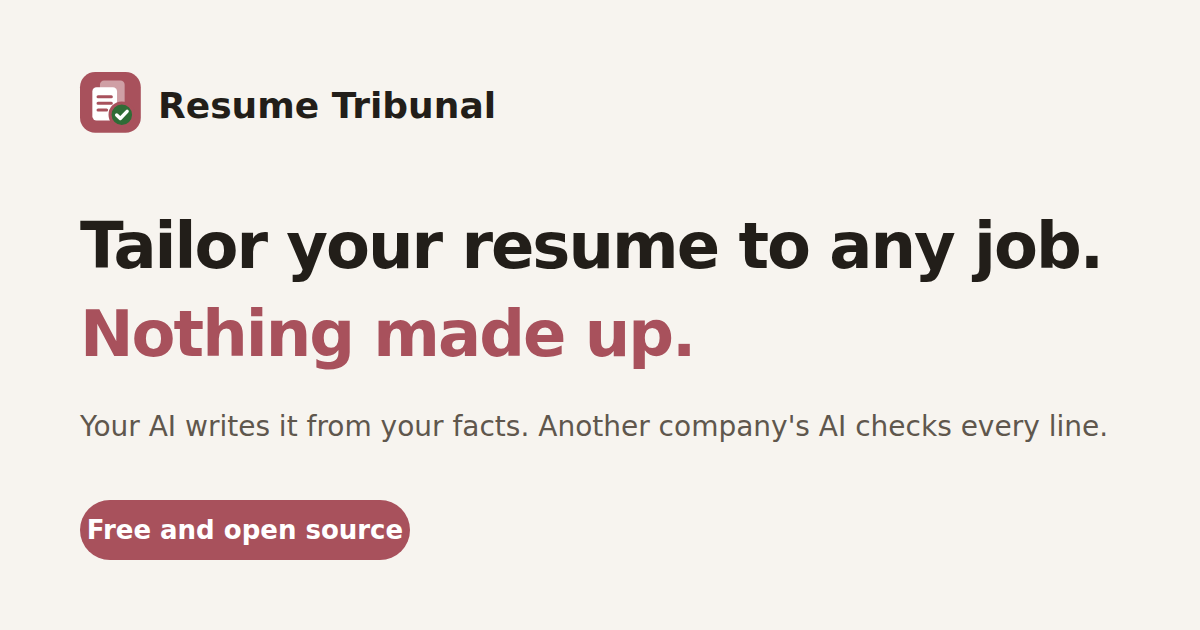
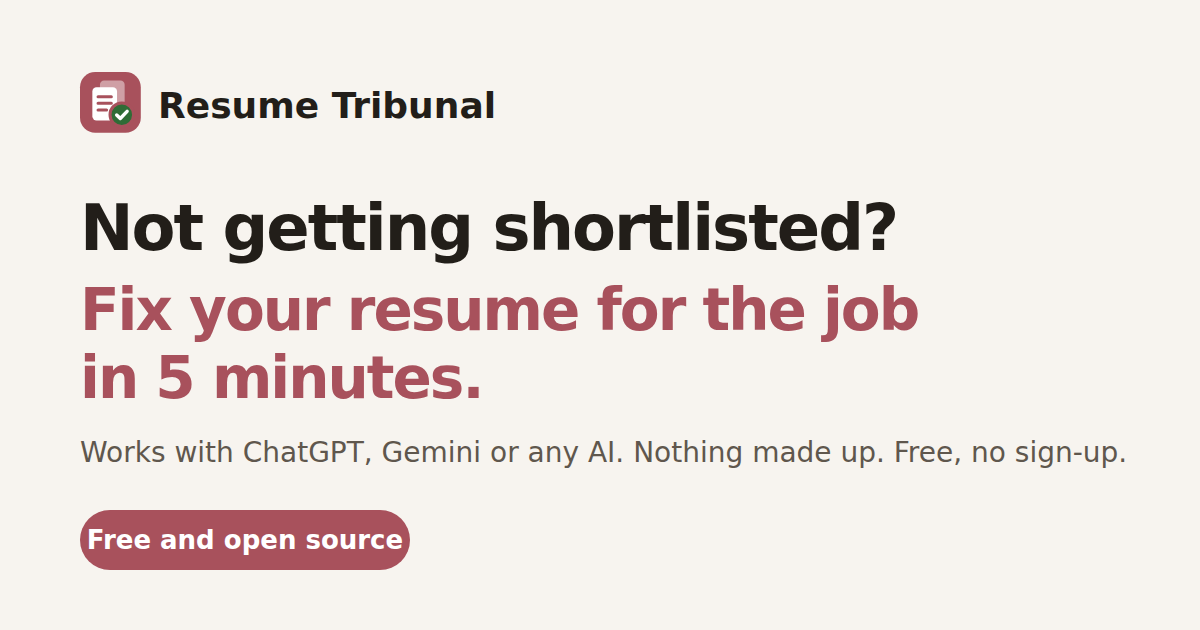
Hero and search snippet chosen by testing with job seekers
Three rounds of blind reader tests against real search results. The
hero leads with the job seeker's goal: 'Not getting shortlisted? Fix
your resume for the job in 5 minutes.' (first for 5 of 5 readers). The
search title keeps the line most readers tapped: 'Free AI Resume
Tailoring That Doesn't Make Stuff Up'.

Changed region(s): [[0.0617, 0.3016, 0.925, 0.6333], [0.0617, 0.6635, 0.925, 0.754], [0.0617, 0.7841, 0.3392, 0.9048]]

diff --git a/docs/index.html b/docs/index.html
@@ -3,16 +3,16 @@
 <head>
 <meta charset="utf-8">
 <meta name="viewport" content="width=device-width, initial-scale=1, viewport-fit=cover">
-<title>Resume Tribunal: tailor your resume to any job, nothing made up</title>
-<meta name="description" content="Free tool that tailors your resume to a job from your own facts. A second AI from a different company checks every line. Works with Claude and ChatGPT.">
+<title>Free AI Resume Tailoring That Doesn&#x27;t Make Stuff Up | Resume Tribunal</title>
+<meta name="description" content="Not getting shortlisted? Fix your resume or CV for the job in 5 minutes with ChatGPT, Gemini or any AI, without anything made up. Free, no sign-up.">
 <link rel="canonical" href="https://mohiddin7.github.io/resume-tribunal/">
 <link rel="icon" href="assets/favicon.svg" type="image/svg+xml">
 <link rel="apple-touch-icon" href="assets/apple-touch-icon.png">
 <link rel="alternate" type="application/rss+xml" title="Resume Tribunal blog" href="https://mohiddin7.github.io/resume-tribunal/feed.xml">
 <meta property="og:type" content="website">
 <meta property="og:site_name" content="Resume Tribunal">
-<meta property="og:title" content="Resume Tribunal: tailor your resume to any job, nothing made up">
-<meta property="og:description" content="Free tool that tailors your resume to a job from your own facts. A second AI from a different company checks every line. Works with Claude and ChatGPT.">
+<meta property="og:title" content="Free AI Resume Tailoring That Doesn&#x27;t Make Stuff Up | Resume Tribunal">
+<meta property="og:description" content="Not getting shortlisted? Fix your resume or CV for the job in 5 minutes with ChatGPT, Gemini or any AI, without anything made up. Free, no sign-up.">
 <meta property="og:url" content="https://mohiddin7.github.io/resume-tribunal/">
 <meta property="og:image" content="https://mohiddin7.github.io/resume-tribunal/assets/og.png">
 <meta property="og:image:width" content="1200">
@@ -39,10 +39,10 @@
 <main id="main">
 <section class="hero">
   <span class="eyebrow">Free resume tool for AI apps</span>
-  <h1>Tailor your resume to any job.<br><span class="accent">Nothing made up.</span></h1>
-  <p class="lede">Paste a job link. Resume Tribunal rewrites your resume from your own facts, then an AI from a different company checks every line.</p>
+  <h1>Not getting shortlisted?<br><span class="accent">Fix your resume for the job in 5 minutes.</span></h1>
+  <p class="lede">Paste the job link into ChatGPT, Gemini or any AI. Your resume gets rewritten for that job, then a second AI checks it the way a hiring manager would, without inventing anything. Free, no sign-up.</p>
   <div class="cta"><a class="btn primary big" href="#start">Get started free</a><a class="btn ghost big" href="#proof">See an example</a></div>
-  <ul class="trust"><li>No sign-up</li><li>Open source</li><li>Works with Claude, ChatGPT and Gemini</li></ul>
+  <ul class="trust"><li>No sign-up</li><li>Open source</li><li>Works with any AI app</li></ul>
 </section>
 
 <section class="demo-wrap" aria-label="Example: what happens to one line of your resume">

diff --git a/docs/assets/site.css b/docs/assets/site.css
@@ -230,3 +230,6 @@ details.more { margin-top: 16px; }
 details.more ul { color: var(--muted); padding-left: 20px; }
 details.more li { margin: 8px 0; }
 .steps .copybox { margin-top: 8px; }
+
+h1, h2 { text-wrap: balance; }
+.hero h1 .accent { display: block; font-size: .82em; margin-top: 6px; }

diff --git a/docs/build.py b/docs/build.py
@@ -268,8 +268,8 @@ FAQ = [
      "A link tracker for resumes, made by the same person who made Resume Tribunal. If your resume has links, you'll see one optional tip about it at the end. You don't need it, and nothing is sent to it."),
 ]
 
-TITLE = "Resume Tribunal: tailor your resume to any job, nothing made up"
-DESC = "Free tool that tailors your resume to a job from your own facts. A second AI from a different company checks every line. Works with Claude and ChatGPT."
+TITLE = "Free AI Resume Tailoring That Doesn't Make Stuff Up | Resume Tribunal"
+DESC = "Not getting shortlisted? Fix your resume or CV for the job in 5 minutes with ChatGPT, Gemini or any AI, without anything made up. Free, no sign-up."
 
 
 def demo_css():
@@ -307,10 +307,10 @@ def build_home(items):
     body = f"""<main id="main">
 <section class="hero">
   <span class="eyebrow">Free resume tool for AI apps</span>
-  <h1>Tailor your resume to any job.<br><span class="accent">Nothing made up.</span></h1>
-  <p class="lede">Paste a job link. Resume Tribunal rewrites your resume from your own facts, then an AI from a different company checks every line.</p>
+  <h1>Not getting shortlisted?<br><span class="accent">Fix your resume for the job in 5 minutes.</span></h1>
+  <p class="lede">Paste the job link into ChatGPT, Gemini or any AI. Your resume gets rewritten for that job, then a second AI checks it the way a hiring manager would, without inventing anything. Free, no sign-up.</p>
   <div class="cta"><a class="btn primary big" href="#start">Get started free</a><a class="btn ghost big" href="#proof">See an example</a></div>
-  <ul class="trust"><li>No sign-up</li><li>Open source</li><li>Works with Claude, ChatGPT and Gemini</li></ul>
+  <ul class="trust"><li>No sign-up</li><li>Open source</li><li>Works with any AI app</li></ul>
 </section>
 
 <section class="demo-wrap" aria-label="Example: what happens to one line of your resume">

diff --git a/docs/art.py b/docs/art.py
@@ -73,11 +73,12 @@ def og():
 <style>{theme(None)}text{{font-family:{FONT}}}</style>
 <rect width="1200" height="630" fill="{t['bg']}"/>
 {mark(80, 72, 1.9)}<text x="158" y="118" font-size="36" font-weight="800" fill="{t['ink']}">Resume Tribunal</text>
-<text x="80" y="268" font-size="64" font-weight="800" letter-spacing="-2" fill="{t['ink']}">Tailor your resume to any job.</text>
-<text x="80" y="356" font-size="64" font-weight="800" letter-spacing="-2" fill="{t['brand']}">Nothing made up.</text>
-<text x="80" y="436" font-size="28" fill="{t['muted']}">Your AI writes it from your facts. Another company's AI checks every line.</text>
-<rect x="80" y="500" width="330" height="60" rx="30" fill="{t['brand']}"/>
-<text x="245" y="539" text-anchor="middle" font-size="26" font-weight="700" fill="#fff">Free and open source</text>
+<text x="80" y="250" font-size="64" font-weight="800" letter-spacing="-2" fill="{t['ink']}">Not getting shortlisted?</text>
+<text x="80" y="330" font-size="58" font-weight="800" letter-spacing="-2" fill="{t['brand']}">Fix your resume for the job</text>
+<text x="80" y="398" font-size="58" font-weight="800" letter-spacing="-2" fill="{t['brand']}">in 5 minutes.</text>
+<text x="80" y="462" font-size="28" fill="{t['muted']}">Works with ChatGPT, Gemini or any AI. Nothing made up. Free, no sign-up.</text>
+<rect x="80" y="510" width="330" height="60" rx="30" fill="{t['brand']}"/>
+<text x="245" y="549" text-anchor="middle" font-size="26" font-weight="700" fill="#fff">Free and open source</text>
 </svg>
 '''
 

diff --git a/README.md b/README.md
@@ -8,7 +8,7 @@
 [![License: MIT](https://img.shields.io/badge/license-MIT-blue.svg)](LICENSE)
 [![Agent Skill](https://img.shields.io/badge/Agent%20Skill-SKILL.md-black.svg)](https://agentskills.io)
 
-**Tailor your resume to any job. Nothing made up.**
+**Not getting shortlisted? Fix your resume for the job in 5 minutes, without the AI making anything up.**
 
 Resume Tribunal is a free add-on for AI apps (an "Agent Skill"). It works in any AI chat app, such as ChatGPT, Gemini or Claude, and in coding agents. One AI rewrites your resume for a specific job using only facts you gave it. An AI made by a different company then checks the draft without being told who wrote it, so nothing gets exaggerated and no AI grades its own work.
 
